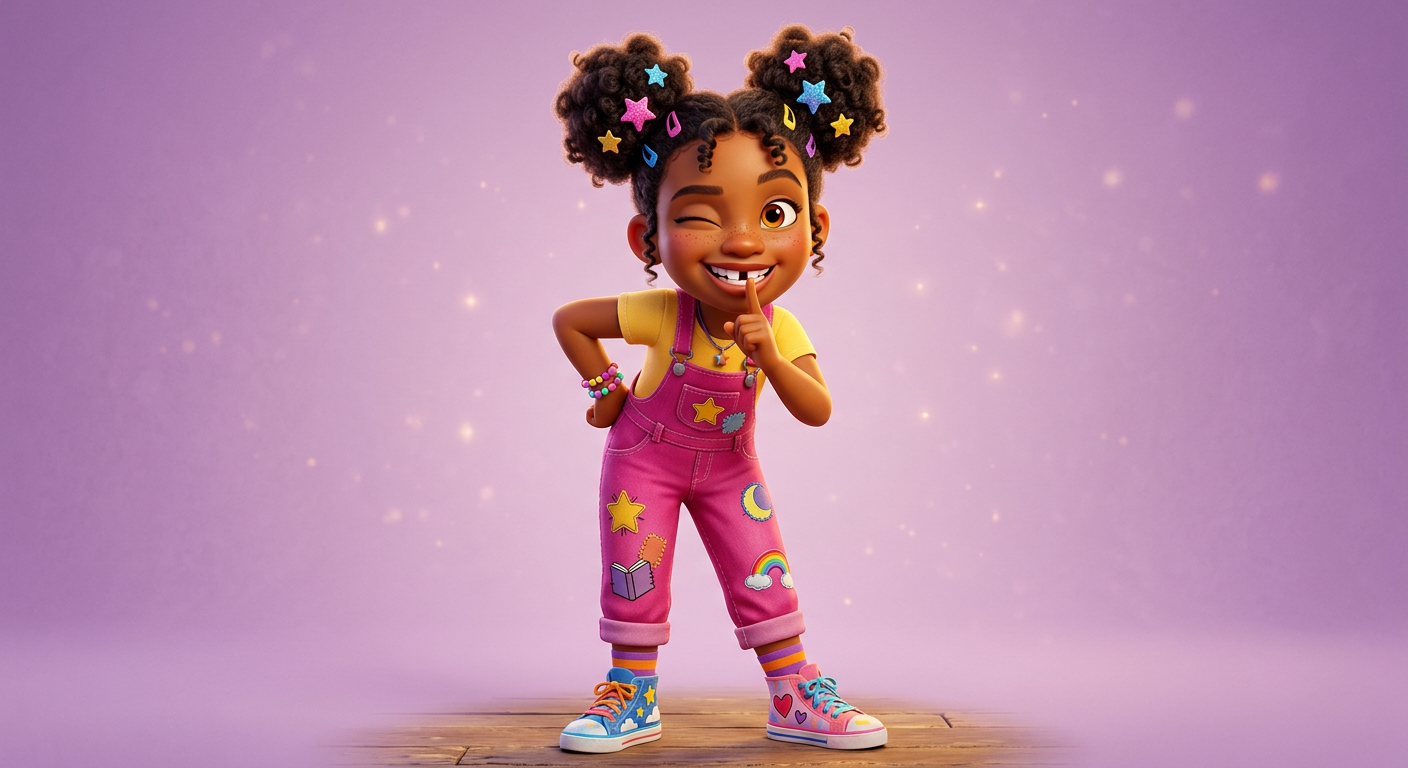
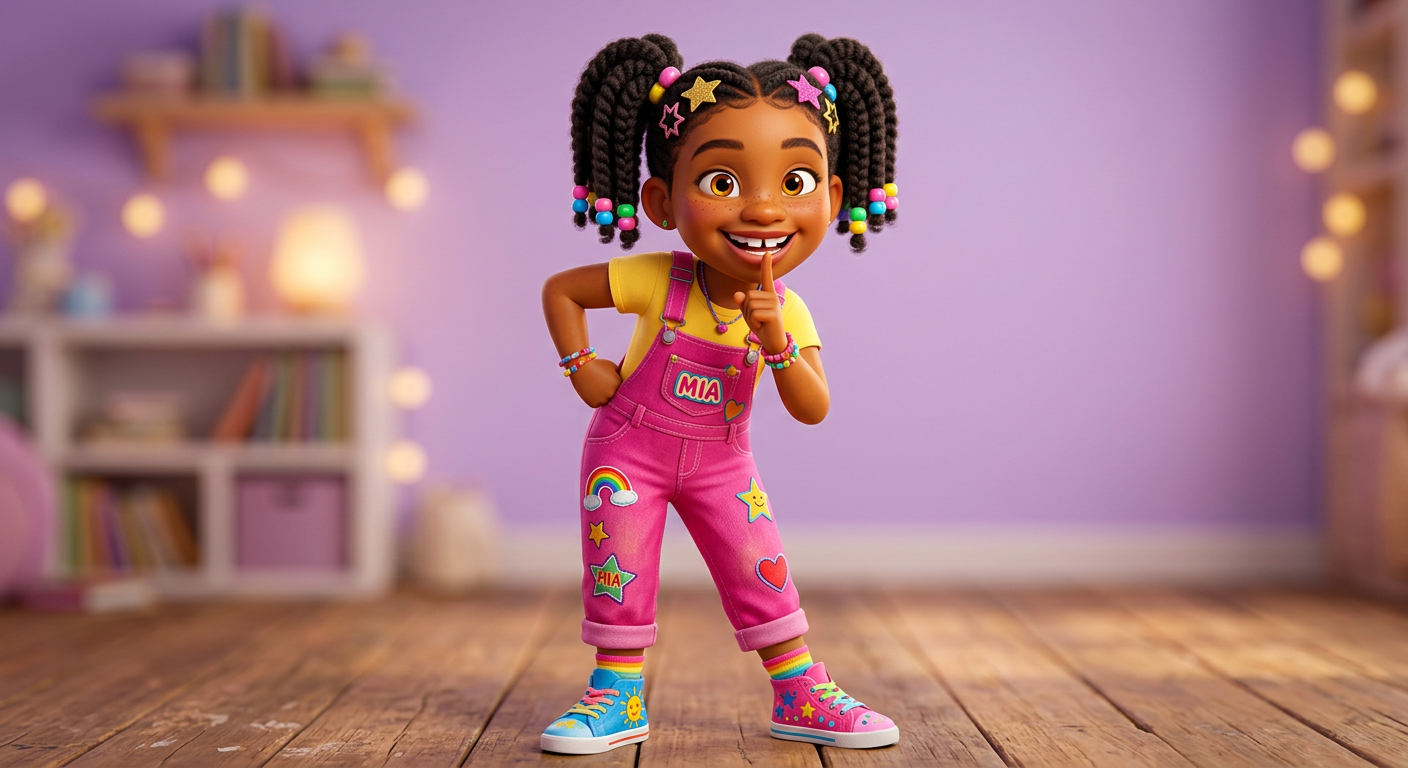
Re-roll Mia (braided puffs + beads), Solani (reads 12-13), Brenda (stylish late-30s mom); update lock blocks

diff --git a/01-mia-puberty-book/characters/CHARACTER-PROMPTS-FOR-APPROVAL.md b/01-mia-puberty-book/characters/CHARACTER-PROMPTS-FOR-APPROVAL.md
@@ -26,11 +26,11 @@ Each character gets a **Lock Block** — the paragraph that never changes. Poses
 ## THE WASHINGTON FAMILY — an African American Black family in Albany, NY
 
 ### 👧🏾 MIA LUZ (10, our narrator) — [LOCK BLOCK]
-> "Mia," a 10-year-old **African American Black** girl, spunky little-sister protagonist. Warm brown skin with golden undertones, big expressive amber-brown eyes, natural dark curly hair in two space buns with sparkly star-shaped clips, proud gap-toothed grin, light freckles across her nose. Signature outfit: hot pink denim overalls with hand-sewn patches, sunny yellow t-shirt, one blue one pink hand-painted sneaker.
+> "Mia," a 10-year-old **African American Black** girl, spunky little-sister protagonist. Warm brown skin with golden undertones, big expressive amber-brown eyes, natural dark hair in two braided puffs with colorful beads at the ends, sparkly star-shaped clips pinned at the front of each puff, proud gap-toothed grin, light freckles across her nose. Signature outfit: hot pink denim overalls with hand-sewn patches, sunny yellow t-shirt, one blue one pink hand-painted sneaker.
 > **Hero prompt:** Full-body portrait, standing confidently with one hand on her hip, leaning toward the viewer like she's about to tell you a secret, one finger raised. Background: soft lavender. [STYLE BLOCK]
 
 ### 🦋 SOLANI MARIS (12, 7th grade) — [LOCK BLOCK]
-> "Solani," a 12-year-old **African American Black** girl, the witty big sister. Warm golden-brown skin with red undertones, proud gap-toothed grin with dimples, expressive eyebrows, dark brown hair in two high braided puffs with colorful butterfly clips. Signature outfit: cropped lavender hoodie over a tank top, baggy patchwork jeans, mismatched rainbow socks, dusty sneakers, small silver pencil-charm necklace.
+> "Solani," a 12-year-old **African American Black** girl, the witty big sister. **Must read clearly as a young middle schooler (12), not older or younger** — rounder youthful face with soft full cheeks, bright wide-set expressive dark eyes, warm golden-brown skin with red undertones, proud gap-toothed grin with deep dimples, expressive eyebrows, dark brown hair in two high braided puffs with colorful butterfly clips. Signature outfit: cropped lavender hoodie over a tank top, baggy patchwork jeans, mismatched rainbow socks, dusty sneakers, small silver pencil-charm necklace.
 > **Hero prompt:** Full-body portrait, arms crossed, smirking at the camera like she just delivered the perfect roast, one eyebrow raised. Background: bodega storefront with striped awning, golden afternoon light. [STYLE BLOCK]
 
 ### 👩🏾🦱 SERAPHINA (15, the dramatic oldest) — [LOCK BLOCK]
@@ -50,7 +50,7 @@ Each character gets a **Lock Block** — the paragraph that never changes. Poses
 > **Hero prompt:** Full-body portrait, mid-laugh, caught in a playful dance pose, one hand raised snapping to a show tune, a potted plant tucked under her other arm. Background: cozy sunlit kitchen. [STYLE BLOCK]
 
 ### 👩🏽 BRENDA (mom) — [LOCK BLOCK]
-> "Brenda," a warm African American Black mom in her late 30s. Long wavy dark hair, colorful scarf tied at her neck, kind laughing eyes, gold hoop earrings, warm brown skin. Signature outfit: flowy blouse, apron with a bit of flour on it.
+> "Brenda," a stylish warm African American Black mom in her late 30s (**must read youthful — late 30s, not older**). Soft waves of dark hair, colorful silk scarf tied at her neck, kind laughing eyes, gold hoop earrings, warm brown skin. Signature outfit: well-fitted dark jeans, pretty flowy blouse in warm terracotta, simple stylish flats — chic casual mom.
 > **Hero prompt:** Full-body portrait, laughing with a wooden spoon in one hand, like she's calling the whole family to eat. Background: warm kitchen. [STYLE BLOCK]
 
 ### 👨🏾 MARCUS (dad — Black American) — [LOCK BLOCK]
